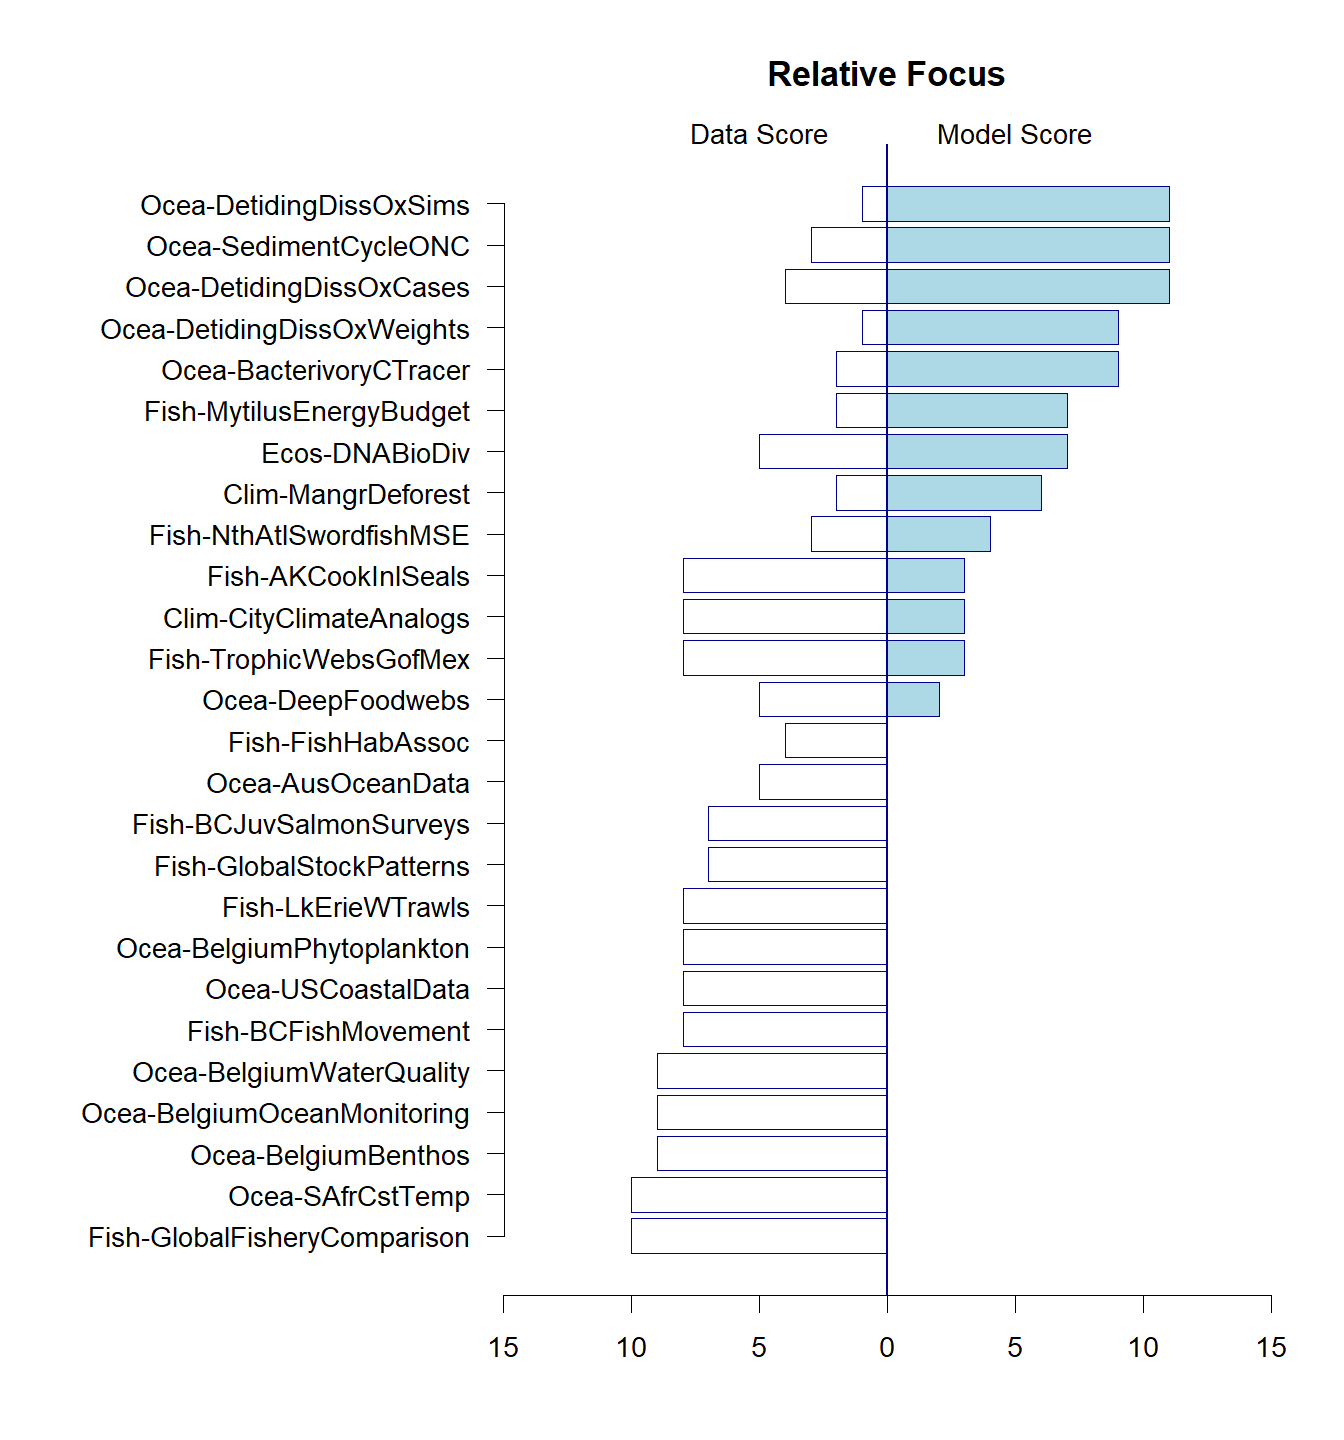
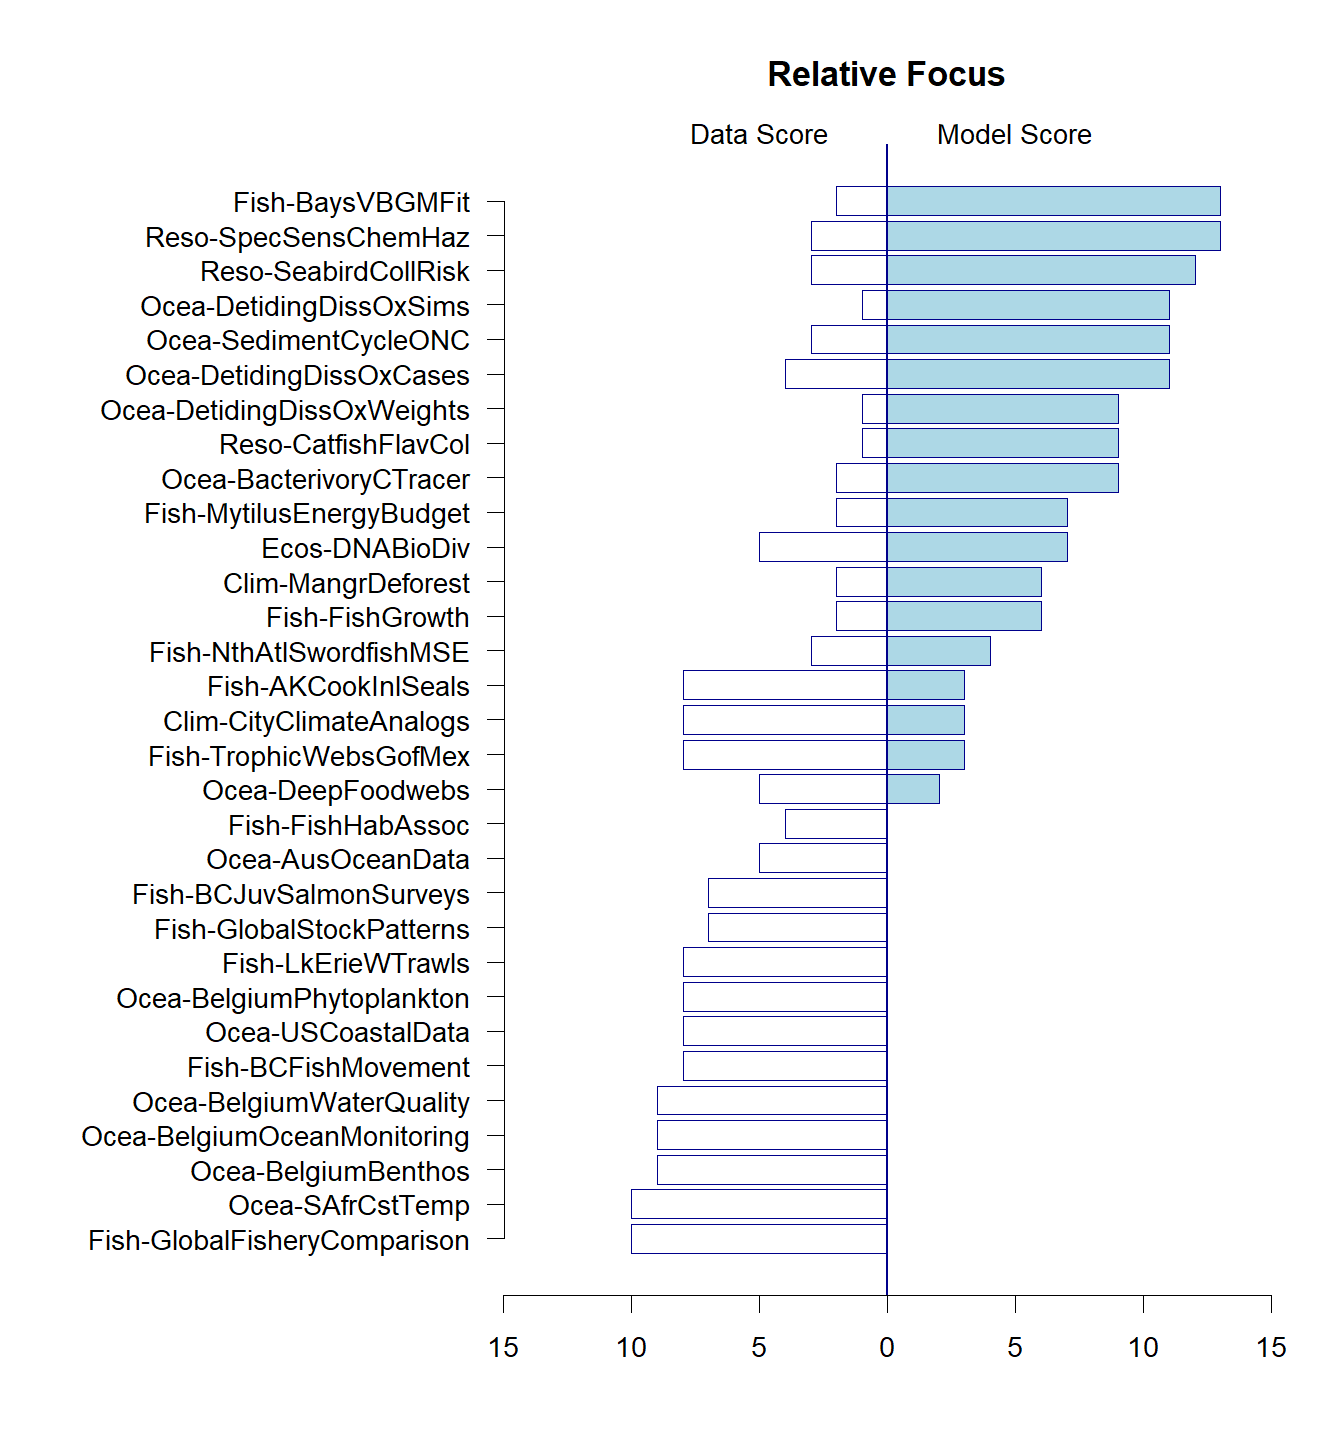
app taxonomy data entry

diff --git a/RESULTS/AppTaxonomy/README.md b/RESULTS/AppTaxonomy/README.md
@@ -4,15 +4,7 @@
 ## App Type
 
 We assigned each app in the [inventory](../../DATA/OnlineApplications/) to
-one of 5 categories:
-
-**Data Focused** | **Model Focused**
--- | --
-Data Portal | General Model
-Data Vis     | Model Documentation
-  --         | Analytical Tool
-
-These categories are defined as:
+one of 5 categories, defined as:
 
 * Data Portal: mainly focused on providing access to one ore more data sets
 * Data Vis: includes data and various ways of displaying the data
@@ -50,7 +42,7 @@ Examples to illustrate the scoring approach:
 Teaching aid for Holling's  predator functional response,letting users try out parameter values | 0  | 0  | 5 | 0  | 0 
 Data set with individual estimates and fitted Holling curves for many different species and areas, and interactive plotting options | 5  | 3 | 0 | 0  | 0 
 App for fitting Holling curves using various frequentist and Bayesian approaches to your own data, including a few sample data sets, and fancy interactive displays to explore the results | 2  | 5  | 2 | 0  | 5
-App with the specific data, fitting functions, and results for a paper on functional responses, with interactive sensitivity testing, but only a basic plots  | 1  | 2 | 0 | 5 | 0 
+App with the specific data, fitting functions, and results for a paper on functional responses, with interactive sensitivity testing, but only a few basic plots  | 1  | 2 | 0 | 5 | 0 
 
 
 The figure below shows the aggregate scores for each app in the current inventory, with DataScore = DPScore + DVScore and ModelScore = GMScore + MD Score + ATScore
